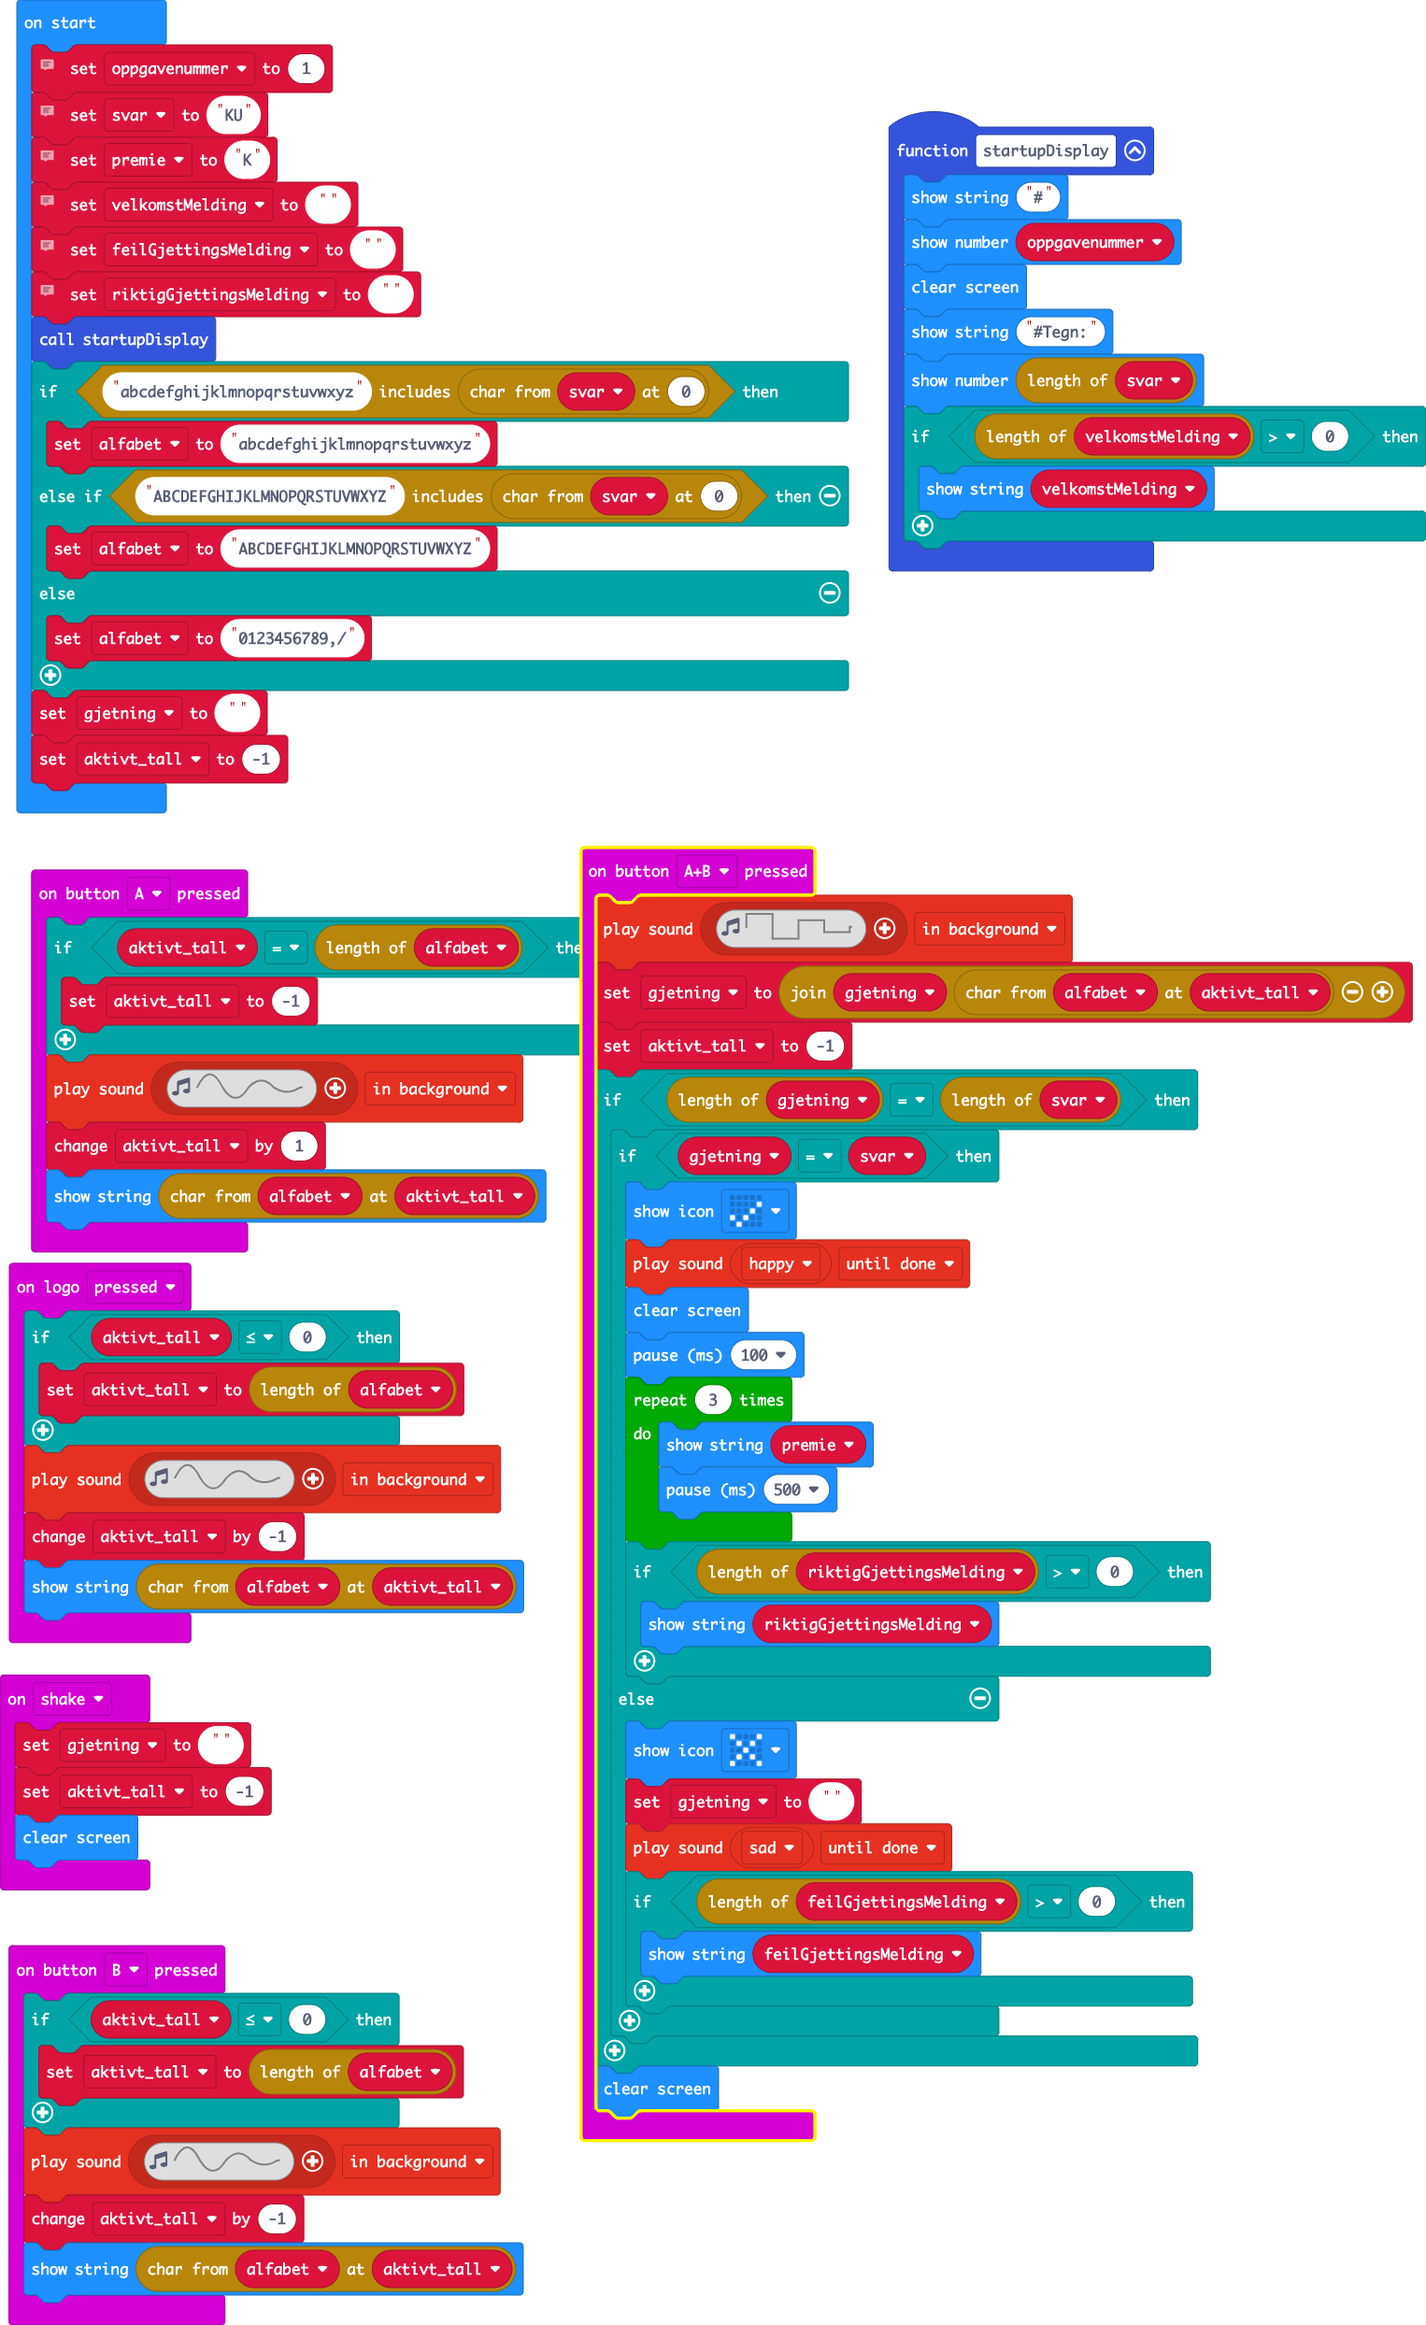
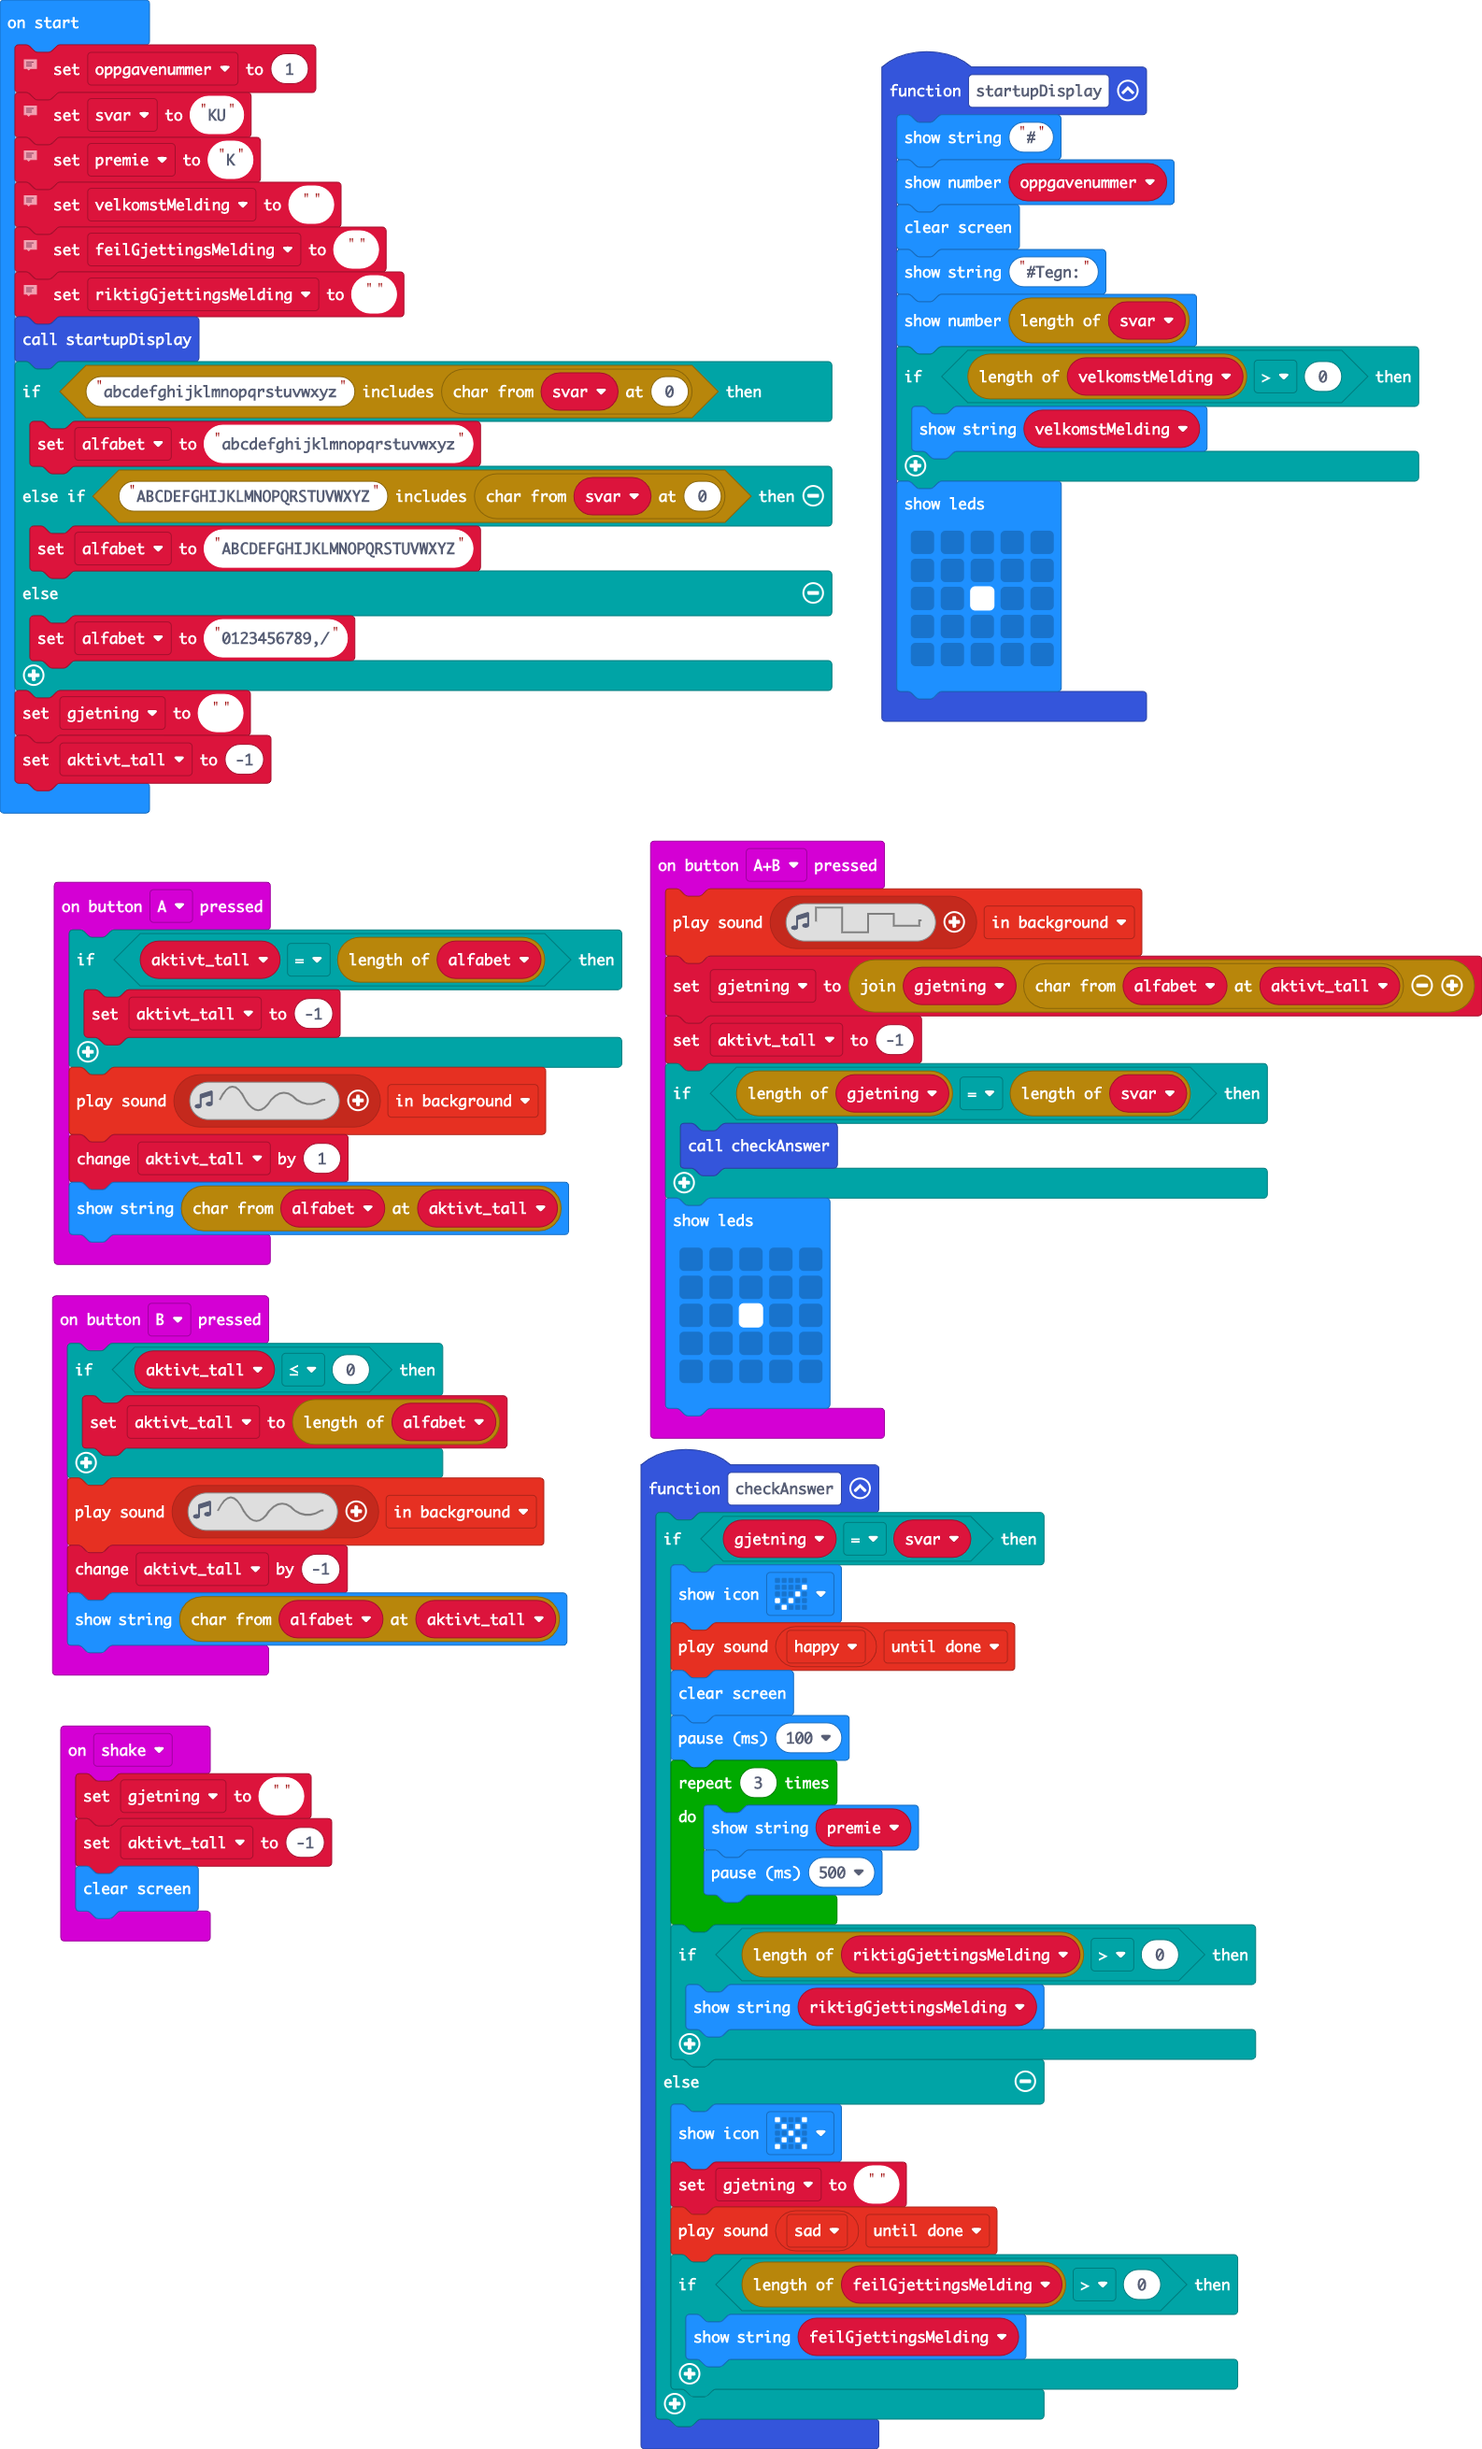
adds LEDs to show microbit is expecting input

diff --git a/main.ts b/main.ts
@@ -6,33 +6,42 @@ input.onButtonPressed(Button.A, function () {
     aktivt_tall += 1
     basic.showString(alfabet.charAt(aktivt_tall))
 })
+function checkAnswer () {
+    if (gjetning == svar) {
+        basic.showIcon(IconNames.Yes)
+        music.playSoundEffect(music.builtinSoundEffect(soundExpression.happy), SoundExpressionPlayMode.UntilDone)
+        basic.clearScreen()
+        basic.pause(100)
+        for (let index = 0; index < 3; index++) {
+            basic.showString(premie)
+            basic.pause(500)
+        }
+        if (riktigGjettingsMelding.length > 0) {
+            basic.showString(riktigGjettingsMelding)
+        }
+    } else {
+        basic.showIcon(IconNames.No)
+        gjetning = ""
+        music.playSoundEffect(music.builtinSoundEffect(soundExpression.sad), SoundExpressionPlayMode.UntilDone)
+        if (feilGjettingsMelding.length > 0) {
+            basic.showString(feilGjettingsMelding)
+        }
+    }
+}
 input.onButtonPressed(Button.AB, function () {
     music.playSoundEffect(music.createSoundEffect(WaveShape.Square, 400, 600, 255, 0, 100, SoundExpressionEffect.Warble, InterpolationCurve.Linear), SoundExpressionPlayMode.InBackground)
     gjetning = "" + gjetning + alfabet.charAt(aktivt_tall)
     aktivt_tall = -1
     if (gjetning.length == svar.length) {
-        if (gjetning == svar) {
-            basic.showIcon(IconNames.Yes)
-            music.playSoundEffect(music.builtinSoundEffect(soundExpression.happy), SoundExpressionPlayMode.UntilDone)
-            basic.clearScreen()
-            basic.pause(100)
-            for (let index = 0; index < 3; index++) {
-                basic.showString(premie)
-                basic.pause(500)
-            }
-            if (riktigGjettingsMelding.length > 0) {
-                basic.showString(riktigGjettingsMelding)
-            }
-        } else {
-            basic.showIcon(IconNames.No)
-            gjetning = ""
-            music.playSoundEffect(music.builtinSoundEffect(soundExpression.sad), SoundExpressionPlayMode.UntilDone)
-            if (feilGjettingsMelding.length > 0) {
-                basic.showString(feilGjettingsMelding)
-            }
-        }
+        checkAnswer()
     }
-    basic.clearScreen()
+    basic.showLeds(`
+        . . . . .
+        . . . . .
+        . . # . .
+        . . . . .
+        . . . . .
+        `)
 })
 input.onButtonPressed(Button.B, function () {
     if (aktivt_tall <= 0) {
@@ -56,15 +65,14 @@ function startupDisplay () {
     if (velkomstMelding.length > 0) {
         basic.showString(velkomstMelding)
     }
+    basic.showLeds(`
+        . . . . .
+        . . . . .
+        . . # . .
+        . . . . .
+        . . . . .
+        `)
 }
-input.onLogoEvent(TouchButtonEvent.Pressed, function () {
-    if (aktivt_tall <= 0) {
-        aktivt_tall = alfabet.length
-    }
-    music.playSoundEffect(music.createSoundEffect(WaveShape.Sine, 500, 500, 255, 0, 15, SoundExpressionEffect.Vibrato, InterpolationCurve.Linear), SoundExpressionPlayMode.InBackground)
-    aktivt_tall += -1
-    basic.showString(alfabet.charAt(aktivt_tall))
-})
 let aktivt_tall = 0
 let gjetning = ""
 let alfabet = ""
